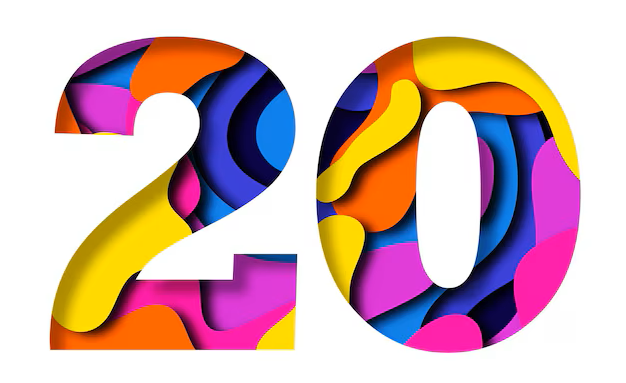
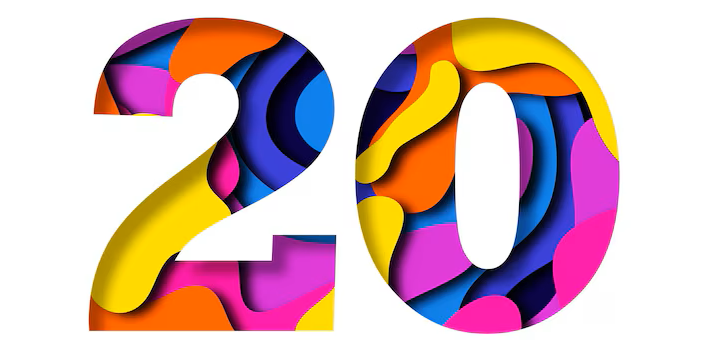
Achievement images update

diff --git a/src/main/kotlin/org/gorych/alice/skill/fairytail/command/NextQuestionCommand.kt b/src/main/kotlin/org/gorych/alice/skill/fairytail/command/NextQuestionCommand.kt
@@ -254,7 +254,7 @@ class NextQuestionCommand : RequestSessionStatedQuestionCommand() {
                 rightAnswersCount = 5,
                 text = FIVE_RIGHT_ANSWERS_ACHIEVEMENT_MESSAGE,
                 tts = FIVE_RIGHT_ANSWERS_ACHIEVEMENT_TTS,
-                imageId = "13200873/bu2umubiu4bghyuzkqqx"
+                imageId = "1540737/ar9xw2gs3u5u0s8isg36"
             ),
             Achievement(
                 rightAnswersCount = 10,
@@ -266,7 +266,7 @@ class NextQuestionCommand : RequestSessionStatedQuestionCommand() {
                 rightAnswersCount = 20,
                 text = TWENTY_RIGHT_ANSWERS_ACHIEVEMENT_MESSAGE,
                 tts = TWENTY_RIGHT_ANSWERS_ACHIEVEMENT_TTS,
-                imageId = "997614/axt31t41h10q2y2wzjmj"
+                imageId = "965417/337lwmj31hmdidyh2sw4"
             ),
         )
 
